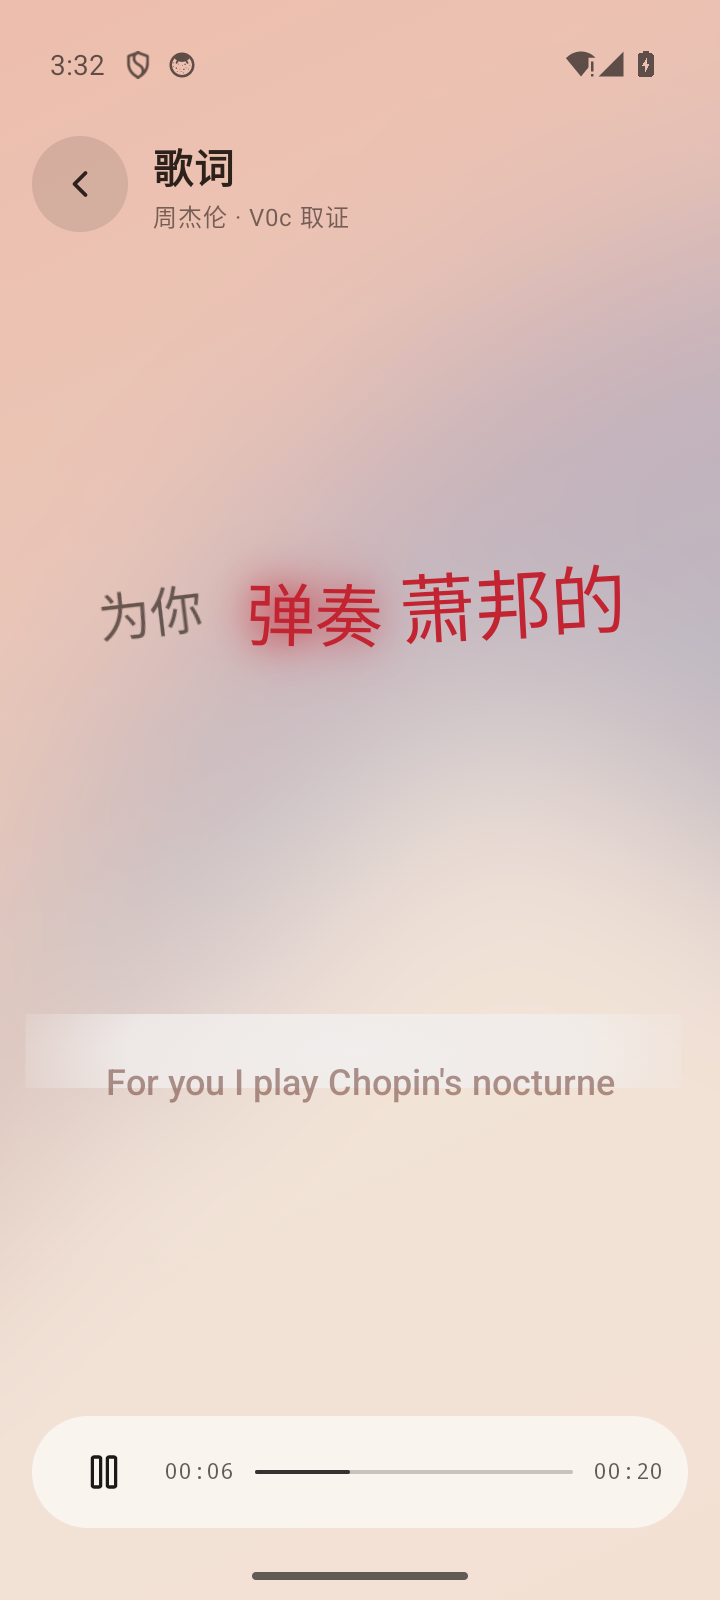
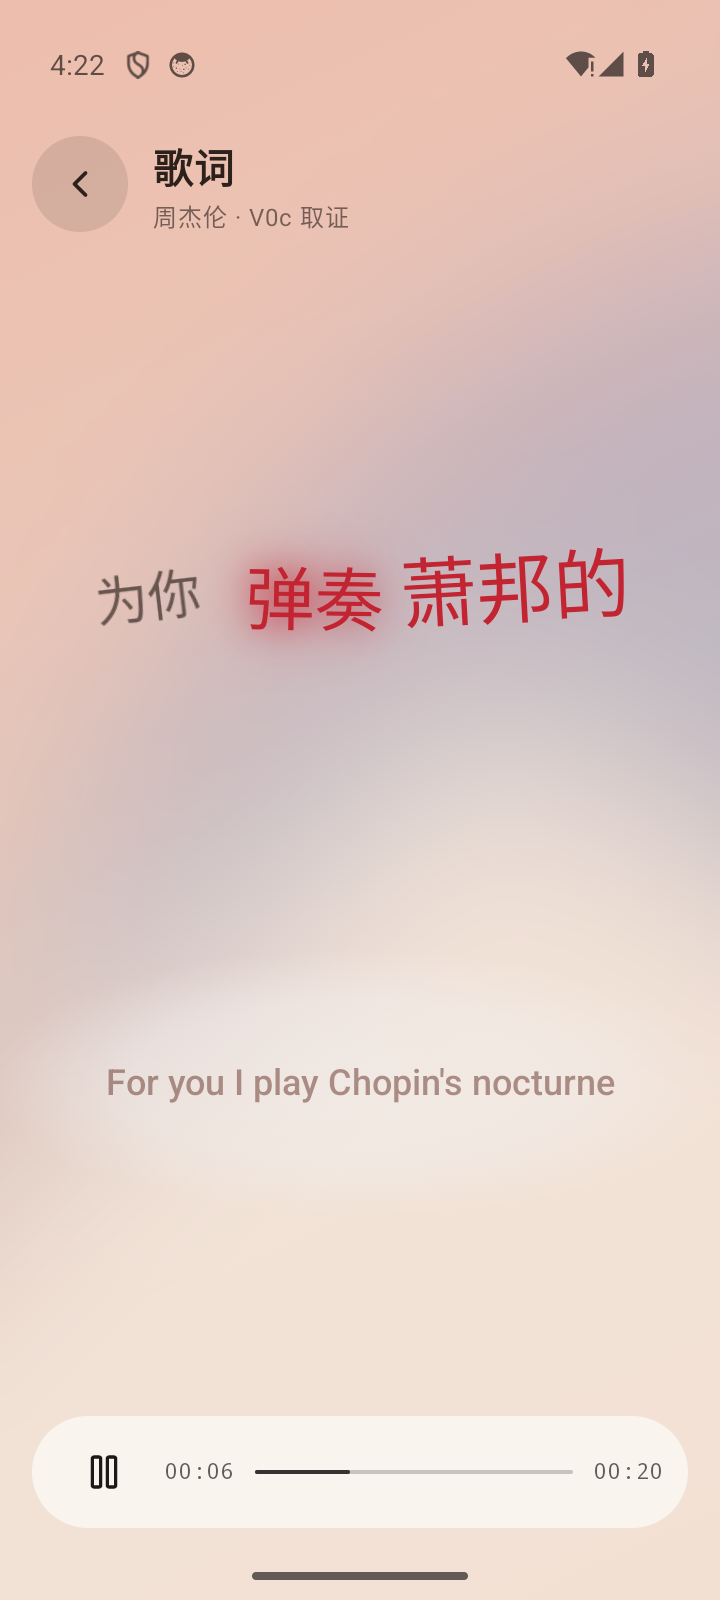
V0e-fix2: 字幕暗区不裁剪

diff --git a/feature/player/src/main/java/com/guangyue/feature/player/lyrics/SubtitleOverlay.kt b/feature/player/src/main/java/com/guangyue/feature/player/lyrics/SubtitleOverlay.kt
@@ -26,6 +26,7 @@ import androidx.compose.ui.graphics.drawscope.translate
 import androidx.compose.ui.graphics.graphicsLayer
 import androidx.compose.ui.graphics.toArgb
 import androidx.compose.ui.layout.onSizeChanged
+import androidx.compose.ui.platform.LocalDensity
 import androidx.compose.ui.platform.testTag
 import androidx.compose.ui.text.TextStyle
 import androidx.compose.ui.text.font.FontFamily
@@ -200,6 +201,12 @@ internal fun LyricSubtitleOverlay(
     var contentWidthPx by remember { mutableIntStateOf(0) }
     var contentHeightPx by remember { mutableIntStateOf(0) }
 
+    // V0e-fix2：整层透明度只作为「系数」参与，不再用 graphicsLayer/Modifier.alpha 做节点级 alpha 图层。
+    // alpha < 1 的图层会把节点离屏合成、并裁剪到节点边界，drawBehind 里超出节点的上下外扩被切掉，
+    // 暗区上下就成了两条直线（左右方向因为节点还有余量，看起来是渐隐）。
+    val overlayAlpha = enter.value.coerceIn(0f, 1f) * SUBTITLE_OVERLAY_OPACITY
+    val enterShiftY = with(LocalDensity.current) { (1f - enter.value) * 20.dp.toPx() }
+
     Box(
         modifier = modifier
             // 本节点独占一整行宽度：背景可以四边溢出，不会被父级 pageH 内边距裁成矩形。
@@ -210,19 +217,23 @@ internal fun LyricSubtitleOverlay(
                 // radial-gradient(ellipse 115% 130% at center, bg@0.96 0%, bg@0.78 62%, transparent 100%)，
                 // 再整体 blur-2xl 把边缘化掉。这里不碰节点级模糊（V0d 已证明 Modifier.blur 把整节点
                 // 光栅成矩形、边缘变硬），改为按同一套参数自绘椭圆径向渐变，四条边都落在渐隐带里。
+                //
+                // V0e-fix2：本节点上没有任何 alpha 图层，绘制不被裁剪；矩形再向外扩到渐变终点之外，
+                // 所以四条边的 alpha 都是 0，暗区的边只由渐变给出，不可能是直线。
                 val padX = SUBTITLE_SCRIM_PAD_X.toPx()
                 val padY = SUBTITLE_SCRIM_PAD_Y.toPx()
                 val textWidth = if (contentWidthPx > 0) contentWidthPx.toFloat() else size.width
                 val textHeight = if (contentHeightPx > 0) contentHeightPx.toFloat() else size.height
                 val boxWidth = textWidth + padX * 2f
                 val boxHeight = textHeight + padY * 2f
-                translate(left = (size.width - boxWidth) / 2f, top = (size.height - boxHeight) / 2f) {
-                    drawEllipseScrim(color = scrimColor, width = boxWidth, height = boxHeight)
+                translate(top = enterShiftY) {
+                    drawEllipseScrim(
+                        color = scrimColor,
+                        width = boxWidth,
+                        height = boxHeight,
+                        alphaScale = overlayAlpha,
+                    )
                 }
-            }
-            .graphicsLayer {
-                alpha = enter.value * SUBTITLE_OVERLAY_OPACITY
-                translationY = (1f - enter.value) * 20.dp.toPx()
             },
         contentAlignment = Alignment.Center,
     ) {
@@ -230,6 +241,8 @@ internal fun LyricSubtitleOverlay(
             horizontalAlignment = Alignment.CenterHorizontally,
             modifier = Modifier
                 .padding(horizontal = 16.dp, vertical = 8.dp)
+                // 只做位移（不设 alpha）：文字与 scrim 的进场位移保持一致，材质不再进离屏图层。
+                .graphicsLayer { translationY = enterShiftY }
                 .onSizeChanged {
                     contentWidthPx = it.width
                     contentHeightPx = it.height
@@ -240,7 +253,9 @@ internal fun LyricSubtitleOverlay(
                     val secondary = index > 0
                     Text(
                         text = row.text,
-                        color = secondaryColor.copy(alpha = if (secondary) SUBTITLE_SECONDARY_OPACITY else 1f),
+                        color = secondaryColor.copy(
+                            alpha = (if (secondary) SUBTITLE_SECONDARY_OPACITY else 1f) * overlayAlpha,
+                        ),
                         fontSize = if (secondary) secondaryFontSize else primaryFontSize,
                         fontWeight = if (secondary) FontWeight.Normal else FontWeight.Medium,
                         fontFamily = fontFamily,
@@ -256,7 +271,7 @@ internal fun LyricSubtitleOverlay(
                 content.previews.forEach { text ->
                     Text(
                         text = text,
-                        color = secondaryColor.copy(alpha = SUBTITLE_PREVIEW_OPACITY),
+                        color = secondaryColor.copy(alpha = SUBTITLE_PREVIEW_OPACITY * overlayAlpha),
                         fontSize = upcomingFontSize,
                         fontWeight = FontWeight.Normal,
                         fontFamily = fontFamily,
@@ -292,16 +307,20 @@ private fun DrawScope.drawEllipseScrim(
     color: Color,
     width: Float,
     height: Float,
+    alphaScale: Float,
 ) {
-    val radiusX = width / 1.15f / 2f + SUBTITLE_SCRIM_FRINGE.toPx()
-    val radiusY = height / 1.30f / 2f + SUBTITLE_SCRIM_FRINGE.toPx()
+    if (alphaScale <= 0f) return
+    val fringe = SUBTITLE_SCRIM_FRINGE.toPx()
+    val radiusX = width / 1.15f / 2f + fringe
+    val radiusY = height / 1.30f / 2f + fringe
     val shader = android.graphics.RadialGradient(
         0f,
         0f,
         1f,
         intArrayOf(
-            color.copy(alpha = 0.96f).toArgb(),
-            color.copy(alpha = 0.78f).toArgb(),
+            // 整层透明度乘进渐变的颜色里（而不是套节点级 alpha 图层）。
+            color.copy(alpha = 0.96f * alphaScale).toArgb(),
+            color.copy(alpha = 0.78f * alphaScale).toArgb(),
             0,
         ),
         floatArrayOf(0f, SUBTITLE_SCRIM_INNER_STOP, 1f),
@@ -310,6 +329,7 @@ private fun DrawScope.drawEllipseScrim(
         setLocalMatrix(
             android.graphics.Matrix().apply {
                 setScale(radiusX, radiusY)
+                // 渐变中心 = 节点中心（文字在这里居中），四个方向对称。
                 postTranslate(size.width / 2f, size.height / 2f)
             },
         )
@@ -317,9 +337,13 @@ private fun DrawScope.drawEllipseScrim(
     drawIntoCanvas { canvas ->
         val paint = Paint().apply {
             this.shader = shader
-            alpha = 1f
+            this.alpha = 1f
             blendMode = BlendMode.SrcOver
         }
-        canvas.drawRect(0f, 0f, size.width, size.height, paint)
+        // V0e-fix2：矩形向外扩到渐变终点（alpha=0）之外，四边的 alpha 都是 0 —— 暗区边界只由
+        // 渐变本身给出。旧写法矩形只覆盖节点本身，下边还比节点底少 PAD_Y，再被节点 alpha 图层
+        // 裁到节点边界，于是上、下各出现一条直线。
+        val bleed = maxOf(radiusX, radiusY) + fringe
+        canvas.drawRect(-bleed, -bleed, size.width + bleed, size.height + bleed, paint)
     }
 }
